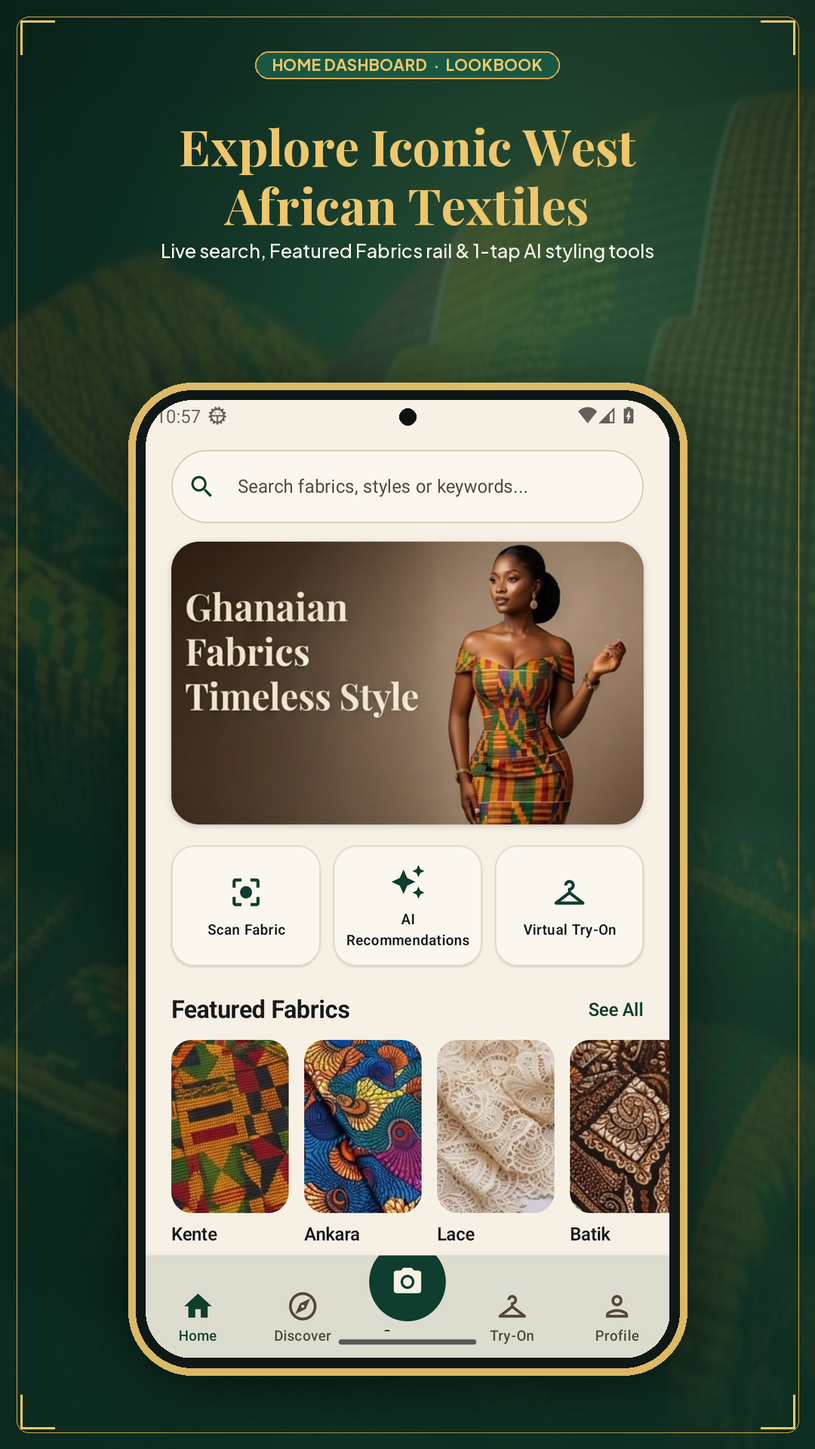
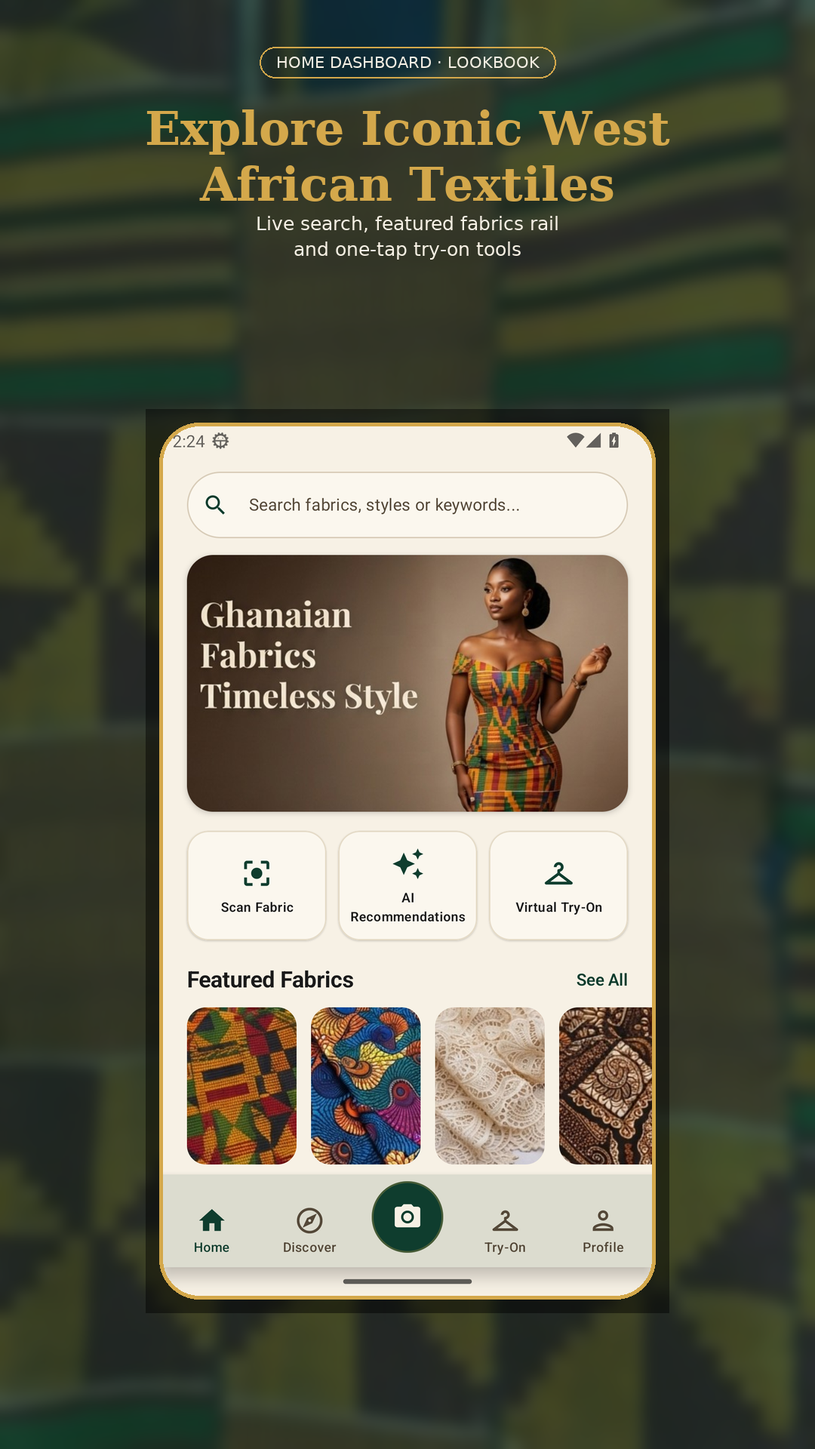
docs: bring the README in line with the shipped v1.1.0
Corrections (checked against the code, not assumed):
- 29 screens -> 37 destinations (23 named + 14 parameterised routes, counted in
  FabricFitNavHost.kt); mermaid graph completed with Community, Search, notification
  preferences and legal, and two real mermaid bugs fixed (a duplicate GAL node and an
  unquoted "FitMatch AI" label that parsed as a stray node).
- Model sizes re-measured: selfie_segmentation was listed as 243.7 KB but is 12.1 KB,
  human_parsing 35.8 -> 24.7 KB, cloth_warper 11.9 -> 25.2 KB.
- Removed the "temperature-scaled softmax" claim; there is no temperature scaling in
  the code. The model output is already softmax.
- Swatch count 19 -> 15; the 98% Match pill is computed from the scan, not hard-coded.
  Also fixed a mermaid-adjacent number: the store card for wardrobe reads 98% confidence.
- Download links and badges point at v1.1.0.

Rebranding and new material:
- Title is FabricFit, not "FabricFit - Heritage Luxe". Heritage Luxe is documented as the
  internal design-system name and the old user-facing copy is called out as removed in
  v1.1.0.
- App icon of record added to the header; brand-mark section rewritten for the new
  fabric-bolt-in-a-hanger icon and the adaptive/monochrome/legacy layers.
- Screen breakdown updated for the rebuilt welcome screen, the Women/Men filters and the
  Discover photo ribbon.
- New: What's new in v1.1.0, Known limitations, Testing notes.
[…]

diff --git a/README.md b/README.md
@@ -1,8 +1,12 @@
-# FabricFit — Heritage Luxe
+# FabricFit
 
 [![build](https://github.com/Jacinth-19/fabricfit-app/actions/workflows/build.yml/badge.svg)](https://github.com/Jacinth-19/fabricfit-app/actions/workflows/build.yml)
 [![release](https://img.shields.io/github/v/release/Jacinth-19/fabricfit-app?label=release)](https://github.com/Jacinth-19/fabricfit-app/releases/latest)
-[![download](https://img.shields.io/badge/download-fabricfit--v1.0.1.apk-D4A84B)](https://github.com/Jacinth-19/fabricfit-app/releases/latest/download/fabricfit-v1.0.3.apk)
+[![download](https://img.shields.io/badge/download-fabricfit--v1.1.0.apk-D4A84B)](https://github.com/Jacinth-19/fabricfit-app/releases/latest/download/fabricfit-v1.1.0.apk)
+
+<p align="center">
+  <img src="FabricFit/brand/fabricfit_icon_512.png" alt="FabricFit app icon" width="120">
+</p>
 
 <div align="center">
 
@@ -15,8 +19,8 @@
 
 <table>
   <tr>
-    <td align="center"><img src="FabricFit/docs/screenshots/welcome.png" alt="FabricFit Welcome Screen" width="210"><br><sub><strong>Welcome · Heritage Luxe</strong></sub></td>
-    <td align="center"><img src="FabricFit/docs/screenshots/home.png" alt="FabricFit Home Dashboard" width="210"><br><sub><strong>Home Dashboard</strong></sub></td>
+    <td align="center"><img src="FabricFit/docs/screenshots/welcome.png" alt="FabricFit Welcome Screen" width="210"><br><sub><strong>Welcome · Shopping Home</strong></sub></td>
+    <td align="center"><img src="FabricFit/docs/screenshots/home.png" alt="FabricFit Home Dashboard" width="210"><br><sub><strong>Home · Lookbook</strong></sub></td>
     <td align="center"><img src="FabricFit/docs/screenshots/create.png" alt="FabricFit Capture Fabric" width="210"><br><sub><strong>FitScan · Capture Fabric</strong></sub></td>
     <td align="center"><img src="FabricFit/docs/screenshots/favourites.png" alt="FabricFit Scan Results" width="210"><br><sub><strong>FitScan · Scan Results</strong></sub></td>
   </tr>
@@ -34,6 +38,8 @@ Complete Google Play Console store listing copy, feature graphics, framed screen
   <img src="FabricFit/store/video/fabricfit_promo_preview.gif" alt="FabricFit Google Play Promo Video Preview" width="760">
   <br>
   <sub><strong>🎬 <a href="FabricFit/store/video/fabricfit_play_store_promo_16x9.mp4">16:9 Google Play Promo Video (MP4 + Audio)</a> · <a href="FabricFit/store/video/fabricfit_shorts_reel_9x16.mp4">9:16 Play Shorts / Reels Video (MP4 + Audio)</a> · <a href="FabricFit/store/listing.md">Full Play Store Listing Kit</a></strong></sub>
+  <br>
+  <sub>⚠ <strong>The promo videos are from before v1.1.0</strong> — they still show the old <em>Heritage Luxe</em> welcome screen. The framed store cards below (01–06) have been regenerated against the current UI.</sub>
 </div>
 
 <br>
@@ -53,7 +59,7 @@ Complete Google Play Console store listing copy, feature graphics, framed screen
 
 ## About FabricFit
 
-**FabricFit** (design system codename **Heritage Luxe**) is a cultural fashion and textile-intelligence Android app built in **Kotlin + Jetpack Compose** in **Accra, Ghana**. It celebrates the artistry of Ghanaian and West African textiles — **Kente**, **Ankara / Wax Print**, **Adinkra**, **Lace**, **Batik**, **Brocade**, and **Northern Fugu / Gonja smock weaves** — and turns every piece of cloth you own into a tailored outfit brief.
+**FabricFit** is a cultural fashion and textile-intelligence Android app built in **Kotlin + Jetpack Compose** in **Accra, Ghana**. It reads like a shopping app: editorial photography, a lookbook you can filter by *Women* or *Men*, and a try-on preview. It celebrates the artistry of Ghanaian and West African textiles — **Kente**, **Ankara / Wax Print**, **Adinkra**, **Lace**, **Batik**, **Brocade**, and **Northern Fugu / Gonja smock weaves** — and turns every piece of cloth you own into a tailored outfit brief.
 
 1. **Scan (`FitScan`)** — Point your camera at any fabric. On-device computer vision classifies the weave, extracts its dominant colour palette, and identifies pattern geometry and drape texture.
 2. **Discover (`FitMatch AI`)** — Browse curated Ghanaian styles (*Kaba & Slit*, *Modern Kente Dress*, *Elegant Peplum*, *Maxi Gown*, *Two-Piece Co-ord*, *Royal Agbada*, *Senator*, *Northern Smock*) ranked by confidence score and occasion.
@@ -66,7 +72,9 @@ Complete Google Play Console store listing copy, feature graphics, framed screen
 
 ## UI/UX Design System — *Heritage Luxe*
 
-As the UI/UX design direction for FabricFit, **Heritage Luxe** replaces generic utility templates with an **editorial, culturally grounded design language** inspired by Ghanaian royal textiles and contemporary luxury fashion houses.
+**Heritage Luxe** is the internal name of the design system — the colour tokens, type scale and component language. It is no longer user-facing copy: the wordmark on the welcome screen and splash reads **FabricFit**, in all four locales. (Earlier builds displayed *Heritage Luxe* as the product name; v1.1.0 removed it.)
+
+The direction replaces generic utility templates with an **editorial, culturally grounded design language** inspired by Ghanaian royal textiles and contemporary luxury fashion houses.
 
 ### 1. Design Pillars
 
@@ -95,9 +103,13 @@ As the UI/UX design direction for FabricFit, **Heritage Luxe** replaces generic 
 | **UI Controls & Commerce Metadata** | **Clean Geometric Sans-Serif** (`FontFamily.SansSerif`) | Search bar, filter chips (`All · Casual · Formal · Occasion`), confidence badges (`98% Match`), pricing (`$78.00 – $140.00`), and star ratings (`★ 4.8`). |
 | **Multilingual Readability** | **Unicode-Complete Sans** | Engineered for seamless rendering across **English**, **Twi (`tw`, ɛ/ɔ glyphs)**, **Ga (`gaa`, ŋ/ɛ/ɔ)**, and **Ewe (`ee`, ɖ/ƒ/ɣ/ŋ/ɔ/ʋ)**. |
 
-### 4. Brand Monogram (`HeritageLuxeMark`)
+### 4. Brand Mark
 
-The splash emblem and brand mark is a custom symmetrical **Adinkra-inspired monogram** rendered in Royal Gold (`#D4A84B`) on Deep Forest (`#0F3D2E`). Its central eye disk, vertical loom spine, three-pronged crown, and flanking woven wings symbolise the union of traditional loom craftsmanship and modern AI vision.
+The launcher icon was replaced in **v1.1.0**. It is a **bolt of fabric folded into a hanger**, with gold adinkra-style patterning on deep emerald — the symbol reads as *clothing* at 48 px, which the previous flat swatch mark did not. It ships as an adaptive icon (background, foreground and monochrome layer), as legacy mipmaps for Android 7–7.1, and as the splash logo.
+
+The older Adinkra monogram (`HeritageLuxeMark`, gold on deep forest, with its eye disk, loom spine, three-pronged crown and woven wings) is still drawn inside the welcome screen and the in-app splash as a compact brand lock-up, next to the **FabricFit** wordmark.
+
+Source of record: [`FabricFit/brand/fabricfit_icon_512.png`](FabricFit/brand/fabricfit_icon_512.png).
 
 ---
 
@@ -118,9 +130,9 @@ ahead of the latest published APK.
 
 <table>
   <tr>
-    <td align="center"><img src="FabricFit/docs/screenshots/welcome.png" alt="FabricFit Welcome Screen" width="215"><br><strong>1. Welcome / Splash</strong><br><sub>Deep Forest canvas, gold Adinkra monogram, folded Kente hero &amp; pill CTAs</sub></td>
-    <td align="center"><img src="FabricFit/docs/screenshots/home.png" alt="FabricFit Home Dashboard" width="215"><br><strong>2. Home Dashboard</strong><br><sub>Search pill, editorial Kente banner, quick-action tiles &amp; Featured Fabrics</sub></td>
-    <td align="center"><img src="FabricFit/docs/screenshots/discover.png" alt="FabricFit Discover" width="215"><br><strong>3. Discover (FitMatch AI)</strong><br><sub>Occasion filter pills over the 2-column Ghanaian lookbook grid</sub></td>
+    <td align="center"><img src="FabricFit/docs/screenshots/welcome.png" alt="FabricFit Welcome Screen" width="215"><br><strong>1. Welcome / Splash</strong><br><sub>Editorial photo hero, FabricFit wordmark &amp; proof chips — copy on a cream panel</sub></td>
+    <td align="center"><img src="FabricFit/docs/screenshots/home.png" alt="FabricFit Home Dashboard" width="215"><br><strong>2. Home Dashboard</strong><br><sub>Search pill, editorial banner, quick-action tiles &amp; Featured Fabrics rail</sub></td>
+    <td align="center"><img src="FabricFit/docs/screenshots/discover.png" alt="FabricFit Discover" width="215"><br><strong>3. Discover (FitMatch AI)</strong><br><sub>Editorial photo ribbon, Women/Men filters &amp; the 2-column lookbook grid</sub></td>
   </tr>
   <tr>
     <td align="center"><img src="FabricFit/docs/screenshots/create.png" alt="FabricFit Capture Fabric" width="215"><br><strong>4. Capture Fabric (FitScan)</strong><br><sub>Dark forest camera chrome, viewfinder &amp; Photo/Sample/Scan switcher</sub></td>
@@ -144,19 +156,19 @@ minified **release build** is published to GitHub Releases on version tags,
 manual workflow dispatch, or a branch commit marked `[release]`; ordinary branch
 builds upload CI artifacts without replacing the public release.
 
-> ### 👉 [Download FabricFit v1.0.3 (APK)](https://github.com/Jacinth-19/fabricfit-app/releases/latest/download/fabricfit-v1.0.3.apk)
+> ### 👉 [Download FabricFit v1.1.0 (APK)](https://github.com/Jacinth-19/fabricfit-app/releases/latest/download/fabricfit-v1.1.0.apk)
 >
-> [`releases/latest`](https://github.com/Jacinth-19/fabricfit-app/releases/latest) also carries `fabricfit-v1.0.3.aab` for a Play upload.
+> [`releases/latest`](https://github.com/Jacinth-19/fabricfit-app/releases/latest) also carries `fabricfit-v1.1.0.aab` for a Play upload.
 
 ```bash
 # install on a connected phone or a running emulator
-adb install -r fabricfit-v1.0.3.apk
+adb install -r fabricfit-v1.1.0.apk
 ```
 
 | What | Where it comes from | Notes |
 | --- | --- | --- |
-| **Release APK** (`fabricfit-v1.0.3.apk`) | `release` job → GitHub Releases | R8-minified, `armeabi-v7a` + `arm64-v8a`, `minSdk 24` (Android 7.0+). |
-| **Release bundle** (`fabricfit-v1.0.3.aab`) | same release | The artifact you would upload to the Play Console. |
+| **Release APK** (`fabricfit-v1.1.0.apk`) | `release` job → GitHub Releases | R8-minified, `armeabi-v7a` + `arm64-v8a`, `minSdk 24` (Android 7.0+). |
+| **Release bundle** (`fabricfit-v1.1.0.aab`) | same release | The artifact you would upload to the Play Console. |
 | **Debug APK** | run → artifact `fabricfit-debug-apk` | `com.fabricfit.app.debug`, debuggable, for testers without a release key. |
 | **Instrumented test report** | run → artifact `test-reports` | Unit-test and lint output for the run. |
 
@@ -178,6 +190,7 @@ pipeline (the older `android-ci.yml` is kept only for reference):
 | `verify` | every push & PR (paths under `FabricFit/**`) | `./gradlew :app:testDebugUnitTest :app:assembleDebug :app:assembleDebugAndroidTest`, then uploads the debug APK and test reports. Gradle failures are annotated inline on the commit. |
 | `release` | after `verify` | `:app:assembleRelease :app:bundleRelease` with R8 (using `KEYSTORE_BASE64` when set, otherwise `demo-release.keystore`), uploads both artifacts, and publishes them to the `v*` GitHub Release on tags, manual dispatch, or a push whose commit message contains `[release]`. |
 | `device-qa` | manual, weekly, or on `v*` tags | Linux runner (`ubuntu-latest`) with KVM & `SCREENSHOT_ABI=1`: boots an API 33 `x86_64` emulator and runs `PersonSegmenterDeviceTest`. |
+| `tryon-e2e` | manual dispatch, or any push whose commit message contains `[tryon-e2e]` | Runs the real try-on on an API 33 emulator (bundled model photo + kente swatch through `PersonSegmenter` and `DemoLookGenerator`), then commits the render, the mask, `report.txt` and a `geometry.txt` polygon dump to `FabricFit/docs/vton/device/`. |
 | `screenshots` | manual dispatch, or any push whose commit message contains `[screenshots]` | Boots an API 33 emulator, drives the app, and commits fresh PNGs to `FabricFit/docs/screenshots/`. |
 
 ```bash
@@ -193,9 +206,10 @@ The notes below refer to the genuine emulator captures in
 [`FabricFit/docs/screenshots/`](FabricFit/docs/screenshots/), not separate design
 mockups.
 
-1. **Welcome / Splash ([`welcome.png`](FabricFit/docs/screenshots/welcome.png) → `OnboardingScreen.kt`)**
-   - Full-bleed Deep Forest (`#0F3D2E`) atmosphere with the Royal Gold Adinkra monogram (`HeritageLuxeMark`), *Heritage Luxe* serif title, and *Scan. Discover. Try. Wear.* value proposition.
-   - Anchored by photorealistic stacked folds of hand-woven Kente cloth and dual full-width pill CTAs (**Get Started** in tonal forest green and **Login** in outlined muted gold).
+1. **Welcome ([`welcome.png`](FabricFit/docs/screenshots/welcome.png) → `OnboardingScreen.kt`)**
+   - A shopping app opens on product, so the screen leads with a full-bleed editorial photograph of a model in kente, with a rounded base and a top scrim carrying the compact brand lock-up and a *Ghana · Made to order* badge.
+   - The headline *Dress the way you were meant to.* and the subtitle sit on a clean cream panel beneath the photo — never on top of the pattern, which is what made earlier builds unreadable.
+   - Closes with *Works offline · AI try-on · Free to use* chips and dual pill CTAs (**Get Started**, **Login**). Content fades and rises in on first frame.
 2. **Home Dashboard ([`home.png`](FabricFit/docs/screenshots/home.png) → `HomeScreen.kt`)**
    - Opens on a Warm Cream (`#F7F1E5`) canvas with a rounded global search pill (*"Search fabrics, styles or keywords…"*).
    - Features the *"Ghanaian Fabrics · Timeless Style"* editorial hero banner, three balanced quick-action cards (**Scan Fabric**, **AI Matches**, **Virtual Try-On**), and a horizontal **Featured Fabrics** rail (**Kente**, **Ankara**, **Lace**, **Batik**, **Adinkra**).
@@ -203,11 +217,11 @@ mockups.
    - Uses dark forest chrome (`#0A2B20`) to eliminate glare while inspecting textile threads.
    - Pairs a macro Kente viewfinder frame with a **Photo · Sample · ● Scan** mode indicator, a quick-access swatch gallery thumbnail, a double-ring shutter button, and a sample-fabric switcher.
 4. **Scan Results ([`favourites.png`](FabricFit/docs/screenshots/favourites.png) → `FavoritesScreen.kt` & `FabricDetailScreen.kt`)**
-   - Summarises the identified weave (**Kente Royalty**) alongside a high-contrast **`98% Match`** pill badge and four extracted colour swatches (forest green, deep burgundy, royal gold, Kente crimson).
+   - Summarises the identified weave (**Kente Royalty**) alongside a high-contrast match pill (the percentage is computed from the scan; `98% Match` is what the demo fabric scores) and four extracted colour swatches (forest green, deep burgundy, royal gold, Kente crimson).
    - Provides a segmented **Colors · Pattern · Style** inspector, a **Recommended Dresses** horizontal carousel with star ratings and review counts, and a full-width gold-on-forest **View All Recommendations** CTA.
-5. **Outfit Recommendations ([`discover.png`](FabricFit/docs/screenshots/discover.png) → `DiscoverScreen.kt` & `RecommendationsScreen.kt`)**
-   - Pairs an editorial serif title with pill filter chips (**All**, **Casual**, **Formal**, **Occasion**, **Fabrics**).
-   - Displays a two-column lookbook grid (*Modern Kente Dress*, *Elegant Peplum Dress*, *Maxi Dress*, *Two-Piece Set*) with favourite heart affordances, tailoring price estimates, and gold star ratings.
+5. **Discover ([`discover.png`](FabricFit/docs/screenshots/discover.png) → `DiscoverScreen.kt` & `RecommendationsScreen.kt`)**
+   - Pairs an editorial serif title with pill filter chips (**All**, **Casual**, **Formal**, **Occasion**) and a second row for **All · Women · Men** plus a sort menu (*Best Match*, *Trending*, *Popular*). *Men* also matches unisex styles.
+   - Opens with a horizontally scrolling **editorial photo ribbon** — real photography of women and men in Ghanaian dress — above the two-column lookbook grid, which carries favourite heart affordances, tailoring price estimates and gold star ratings.
 6. **Profile ([`profile.png`](FabricFit/docs/screenshots/profile.png) → `ProfileScreen.kt`)**
    - Returns to the intimate Deep Forest dark palette with a gold-ringed circular portrait (**Ama Serwaa — Fashion Lover**), a three-column activity summary for scans, favourites and try-ons, and translucent dark cards leading to **My Fit Closet**, **Saved Styles**, **Scan History**, **Settings**, and **Help & Support**.
 
@@ -219,14 +233,14 @@ mockups.
 | --- | --- | --- |
 | Camera scanner | **FitScan** | Photograph any fabric; on-device ML classifies the textile and extracts its palette, pattern, and texture. |
 | AI recommendation engine | **FitMatch AI** | Ranks outfit designs against your fabric with a confidence % and plain-language reasoning; filterable by occasion and category. |
-| Virtual try-on | **FitRoom** | Drapes the scanned fabric onto a model or your own photo so you can preview the finished garment before you sew. Runs entirely on-device — no account, no API key, works offline. See [`FabricFit/tools/vton_qa/README.md`](FabricFit/tools/vton_qa/README.md) to test it locally or on your phone. |
+| Virtual try-on | **FitRoom** | Drapes the scanned fabric onto a model or your own photo so you can preview the finished garment before you sew. It is **geometry plus compositing, not a diffusion render**: `PersonSegmenter` finds the person, `BodyFit` measures shoulders/bust/waist/hip from the mask, and the garment is fitted as vector polygons with the real fabric drawn through them and shaded. Runs entirely on-device in roughly 150 ms — no account, no API key, works offline. See [`FabricFit/tools/vton_qa/README.md`](FabricFit/tools/vton_qa/README.md) to test it locally or on your phone. |
 | Wardrobe & saved items | **My Fit Closet** | Organises your wardrobe capsule, saved styles, scan history, body measurements, and shareable PDF tailor briefs. |
 
 ---
 
-## Navigation Map (29 Screens)
+## Navigation Map (37 Destinations)
 
-The app ships **29 screens**: 28 registered in the navigation graph plus the first-run Welcome/Onboarding gate. Routes are declared in [`ui/navigation/Destinations.kt`](FabricFit/app/src/main/java/com/fabricfit/app/ui/navigation/Destinations.kt) and wired up in [`ui/navigation/FabricFitNavHost.kt`](FabricFit/app/src/main/java/com/fabricfit/app/ui/navigation/FabricFitNavHost.kt).
+The app ships **37 destinations**: 36 registered in the navigation graph (23 named routes plus 14 parameterised ones such as `design/{styleId}` and `tryon?fabricId=…`) plus the first-run Welcome/Onboarding gate. Routes are declared in [`ui/navigation/Destinations.kt`](FabricFit/app/src/main/java/com/fabricfit/app/ui/navigation/Destinations.kt) and wired up in [`ui/navigation/FabricFitNavHost.kt`](FabricFit/app/src/main/java/com/fabricfit/app/ui/navigation/FabricFitNavHost.kt).
 
 ```mermaid
 flowchart TD
@@ -243,13 +257,13 @@ flowchart TD
     CREATE --> CAMP[Camera · person]
     CAMF --> EDIT[Edit image]
     GAL --> EDIT
-    EDIT --> ANA[FitScan analysis]
+    EDIT --> ANA["FitScan analysis"]
     ANA --> FAB[Fabric detail]
 
-    FAB --> MATCH[FitMatch AI]
+    FAB --> MATCH["FitMatch AI"]
     FAB --> TRY[FitRoom]
     FAB --> COL[Colour ideas]
-    MATCH --> DES[Design detail]
+    MATCH --> DES["Design detail"]
     DES --> TRY
     CAMP --> TRY
     DISC --> DES
@@ -261,6 +275,17 @@ flowchart TD
     HOME --> TL[Tailors and designers]
     TL --> TDET[Tailor detail]
     HOME --> PREM[FabricFit Premium]
+    HOME --> COMM[Community feed]
+    COMM --> CPOST[Create post]
+    COMM --> CHAL[Challenge detail]
+    COMM --> CGAL[Community gallery detail]
+    COMM --> UPROF[User profile]
+    SEARCH[Search] --> DES
+    SEARCH --> UPROF
+    SET --> NOTIF[Notification preferences]
+    SET --> BLOCKED[Blocked users]
+    INFO --> LEGAL[Legal documents]
+    ADMIN[Admin moderation]
 
     PROF --> HIST[History]
     PROF --> SET[Settings]
@@ -277,11 +302,21 @@ FabricFit pairs an offline-first on-device computer-vision and ML pipeline with 
 
 | # | AI / ML Capability | Bundled `.tflite` Assets (`app/src/main/assets/`) | Core Implementation | What It Computes |
 | --- | --- | --- | --- | --- |
-| **1** | **Ghanaian Textile Classifier with OOD Uncertainty** | • `ghanaian_fabric_classifier.tflite` (`85.5 KB`, `[1,128,128,3] -> [1,17]`)<br>• `ghanaian_fabric_labels.txt` (17 classes)<br>• `mobilenet_v2_1.0_224_quant.tflite` (`3.5 MB`, `[1,224,224,3] -> [1,1001]`) | `OnDeviceMlClassifier.kt` & `FabricAnalysisRepositoryImpl.kt` | • Dedicated 17-class Ghanaian & West African textile classifier (`ADINKRA`, `ANKARA`, `BATIK`, `BROCADE`, `CHIFFON`, `COTTON_PLAIN`, `DENIM`, `FUGU`, `GONJA`, `KENTE`, `KENTE_PRINT`, `LACE`, `LINEN`, `SILK`, `TIEDYE`, `VELVET`, `WAX`).<br>• Temperature-scaled softmax, normalized Shannon entropy ($H / \ln K$), top-1/top-2 margin gating, and out-of-distribution (`NON_TEXTILE_DOMINANT`) rejection via MobileNetV2. |
+| **1** | **Ghanaian Textile Classifier with OOD Uncertainty** | • `ghanaian_fabric_classifier.tflite` (`85.5 KB`, `[1,128,128,3] -> [1,17]`)<br>• `ghanaian_fabric_labels.txt` (17 classes)<br>• `mobilenet_v2_1.0_224_quant.tflite` (`3.5 MB`, `[1,224,224,3] -> [1,1001]`) | `OnDeviceMlClassifier.kt` & `FabricAnalysisRepositoryImpl.kt` | • Dedicated 17-class Ghanaian & West African textile classifier (`ADINKRA`, `ANKARA`, `BATIK`, `BROCADE`, `CHIFFON`, `COTTON_PLAIN`, `DENIM`, `FUGU`, `GONJA`, `KENTE`, `KENTE_PRINT`, `LACE`, `LINEN`, `SILK`, `TIEDYE`, `VELVET`, `WAX`).<br>• The model's own softmax output, normalized Shannon entropy ($H / \ln K$), top-1/top-2 margin gating, and out-of-distribution (`NON_TEXTILE_DOMINANT`) rejection via MobileNetV2. There is no temperature scaling in the code. |
 | **2** | **Multi-Scale Weave & Motif Periodicity Analyzer** | • `weave_motif_extractor.tflite` (`16.1 KB`, `[1,128,128,3] -> [1,6]`) | `TextureMetrics.kt`, `ColorPatternAnalyzer.kt` & `OnDeviceMlClassifier.kt` | • 24-filter Gabor directional conv bank (`0°`, `45°`, `90°`, `135°` across 3 wavelengths) + `gaborOrientation(...)` (`GaborOrientationProfile`).<br>• `spectralMotifProfile(...)` (`SpectralMotifProfile`): 1D DFT autocorrelation harmonic purity, normalized strip width, motif repeat pitch (`repeatX`, `repeatY`), and tailoring `AlignmentAdvice`. |
-| **3** | **Human Parsing & Skin-Tone Segmentation** | • `selfie_segmentation.tflite` (`243.7 KB`, MediaPipe `[1,256,256,3] -> [1,256,256,1]`)<br>• `human_parsing_5class.tflite` (`35.8 KB`, `[1,128,128,3] -> [1,128,128,5]`)<br>• `deeplabv3_257_mv.tflite` (`2.7 MB`, `[1,257,257,3] -> [1,257,257,21]`) | `PersonSegmenter.kt` & `ColorHarmonyEngine.kt` | • Fuses MediaPipe Selfie Segmentation, DeepLabV3, and the 5-class human parser (`BACKGROUND`, `HEAD_AND_FACE`, `UPPER_GARMENT`, `LOWER_GARMENT`, `SKIN_EXPOSED`).<br>• Extracts wearer `dominantSkinArgb` and `SkinUndertone` (`WARM_GOLDEN`, `COOL_DEEP`, `NEUTRAL_RICH`) for `ColorHarmonyEngine.skinHarmonyScore(...)` & `suggestForWearer(...)`. |
-| **4** | **Texture-Preserving Cloth Warper for Virtual Try-On** | • `cloth_warper_shading.tflite` (`11.9 KB`, `[1,64,64,4] -> [1,64,64,3]`) | `DemoLookGenerator.kt`, `GarmentGeometry.kt` & `CloudAnalysisClient.kt` | • Seamless `160×160` mirror-tiled real fabric swatch extraction (`loadRealFabricTextureOrFallback`), dynamic sleeve/neckline/length polygon reshaping, 3D cylindrical + neural fold shading (`predictClothShadingMap`), head/face pixel preservation, and `POST v1/tryon` cloud VTON contract. |
-| **5** | **Context-Aware FitMatch AI Ranker** | • `fitmatch_ranker.tflite` (`6.5 KB`, `[1,16] -> [1,1]`) | `RecommendationEngine.kt` & `RecommendationsViewModel.kt` | • 16-feature neural ranker MLP (`buildFeatureVector`) fused with `RecommendationContext` (fabric structure, wearer skin-tone harmony, `Measurements` waist-to-hip & height proportions, Gabor weave anisotropy, and session favorite style affinity). |
+| **3** | **Human Parsing & Skin-Tone Segmentation** | • `selfie_segmentation.tflite` (`12.1 KB`, `[1,256,256,3] -> [1,256,256,1]`)<br>• `human_parsing_5class.tflite` (`24.7 KB`, `[1,128,128,3] -> [1,128,128,5]`)<br>• `deeplabv3_257_mv.tflite` (`2.7 MB`, `[1,257,257,3] -> [1,257,257,21]`) | `PersonSegmenter.kt` & `ColorHarmonyEngine.kt` | • Fuses MediaPipe Selfie Segmentation, DeepLabV3, and the 5-class human parser (`BACKGROUND`, `HEAD_AND_FACE`, `UPPER_GARMENT`, `LOWER_GARMENT`, `SKIN_EXPOSED`).<br>• Extracts wearer `dominantSkinArgb` and `SkinUndertone` (`WARM_GOLDEN`, `COOL_DEEP`, `NEUTRAL_RICH`) for `ColorHarmonyEngine.skinHarmonyScore(...)` & `suggestForWearer(...)`. |
+| **4** | **Texture-Preserving Cloth Warper for Virtual Try-On** | • `cloth_warper_shading.tflite` (`25.2 KB`, `[1,64,64,4] -> [1,64,64,3]`) | `DemoLookGenerator.kt`, `GarmentGeometry.kt` & `CloudAnalysisClient.kt` | • Seamless `160×160` mirror-tiled real fabric swatch extraction (`loadRealFabricTextureOrFallback`), dynamic sleeve/neckline/length polygon reshaping, 3D cylindrical + neural fold shading (`predictClothShadingMap`), head/face pixel preservation, and `POST v1/tryon` cloud VTON contract. |
+| **5** | **Context-Aware FitMatch AI Ranker** | • `fitmatch_ranker.tflite` (`6.6 KB`, `[1,16] -> [1,1]`) | `RecommendationEngine.kt` & `RecommendationsViewModel.kt` | • 16-feature neural ranker MLP (`buildFeatureVector`) fused with `RecommendationContext` (fabric structure, wearer skin-tone harmony, `Measurements` waist-to-hip & height proportions, Gabor weave anisotropy, and session favorite style affinity). |
+
+### What the on-device models have actually measured
+
+Checked against the real swatches bundled in the app, so the numbers below are reproducible
+rather than aspirational:
+
+- **Fabric classifier — 15 of 15 bundled swatches correct**, most at 0.99+ confidence. Stable under rotation, mirroring and brightening; degrades sensibly (desaturated kente → `BATIK`, darkened lace → `SILK`).
+- **It is confident on non-fabric input.** Solid white and solid black both return `LINEN` at 1.00; random noise returns `ANKARA` at 0.997. The model answers *"which of these 17 fabrics is this most like"*, not *"is this fabric at all"*. The ImageNet OOD gate plus the spectral/Gabor checks in `OnDeviceMlClassifier` are what actually reject a photo of a wall or a plate of food — those paths carry more weight than they look like they do.
+- **Four of the eight `.tflite` files are small feature networks**, not trained deep models: `selfie_segmentation`, `human_parsing_5class`, `weave_motif_extractor` and `cloth_warper_shading` are tensors over a handful of layers. They contribute signals; `deeplabv3`, MobileNetV2 and the fabric classifier are the three full networks in the bundle.
+- **There is no on-device generative try-on model.** Nothing phone-class exists today at usable quality. See [`FabricFit/docs/CATALOGUE_AND_ML.md`](FabricFit/docs/CATALOGUE_AND_ML.md) for the full explanation, the recommendation features, and how to swap in a remote catalogue.
 
 ---
 
@@ -289,7 +324,8 @@ FabricFit pairs an offline-first on-device computer-vision and ML pipeline with 
 
 ```
 FabricFit/          Android app (Kotlin + Jetpack Compose), package com.fabricfit.app
-  app/              app module — Heritage Luxe UI, domain engines, Room DB, on-device ML
+  app/              app module — Compose UI (Heritage Luxe design system), domain engines,
+                    Room DB, on-device ML
   docs/             brand positioning, Play readiness, device QA, research notes,
                     screenshots/ (real API 33 emulator captures)
   store/            Play listing copy, icon and feature graphic, privacy policy
@@ -314,7 +350,7 @@ Full build instructions, release signing, and verification notes: [`FabricFit/BU
 
 ## Ghanaian Languages (`i18n`)
 
-FabricFit ships with full string translations in **English**, **Twi (`tw`)**, **Ga (`gaa`)**, and **Ewe (`ee`)**. Translation packs live in `FabricFit/tools/i18n/`; validate and regenerate XML resources with:
+FabricFit ships with **829 strings** in each of **English**, **Twi (`tw`)**, **Ga (`gaa`)** and **Ewe (`ee`)** — four complete locale files, not English with a few words swapped (the locales differ from each other in ~95% of strings). Translation packs live in `FabricFit/tools/i18n/`; validate and regenerate the XML resources with:
 
 ```bash
 cd FabricFit
@@ -323,13 +359,42 @@ python3 tools/i18n/generate.py
 
 ---
 
+## What's new in v1.1.0
+
+- **New launcher icon and splash mark** — fabric bolt folded into a hanger, replacing the flat swatch vector.
+- **Welcome screen rebuilt** for a shopping-app first impression: editorial photo hero, FabricFit wordmark, headline on a cream panel, proof chips, and a fade-and-rise entrance.
+- **"Heritage Luxe" removed from every user-facing string** (English, Twi, Ga, Ewe); it remains the internal design-system name.
+- **Real photography replaces illustrations** — the 12 catalogue looks are now editorial photographs of women and men in Ghanaian dress, and Discover opens with a photo ribbon. Assets re-encoded to phone sizes (2.5 MB → 1.3 MB).
+- **Motion** — a reusable `revealOnEnter` effect on Home and Discover, plus a scale-in on the splash.
+- **Play Store cards 01–06 regenerated** so the store listing shows the current UI instead of the old welcome screen.
+
+## Known limitations
+
+Written down so they are not mistaken for finished work:
+
+- **The try-on is not photorealistic.** Garment edges sit slightly inside the arm silhouette, and the subject's own clothing still shows at the waist and below the sleeves. It is a fitting preview, not a render.
+- **No behavioural personalisation.** Recommendations use fabric analysis, style metadata, optional measurements, skin tone and favourites. There is no click or purchase history and no A/B testing.
+- **The catalogue is bundled.** 20 styles, 12 looks, 15 swatches. There is no server, no accounts, and no way to add a look without shipping a new APK — the `CatalogDataSource` interface is the seam where a backend would attach.
+- **Twi, Ga and Ewe translations are machine-generated.** They are genuinely distinct strings (only ~5% identical between locales), but they have not been reviewed by native speakers. Treat them as a starting point, not as launch-ready copy.
+- **Four of the eight bundled `.tflite` files are small feature networks**, not trained deep models. See the ML section above for which ones are real.
+- **Motion is per-screen, not one continuous choreography.** Screens animate on entry; there is no shared element transition between them yet.
+
+## Testing notes
+
+- Every screenshot in this README is an emulator capture (API 33, 1080 × 1920) produced by the `screenshots` job — no mockups.
+- The on-device try-on is verified on an **emulator**, not a physical handset. A real camera photo gives a messier segmentation mask than the bundled sample, so results on a phone may differ.
+- `BodyFitParityTest` pins the geometry that the Kotlin renderer and the Python reference (`tools/vton_qa/vton_local.py`) must agree on, including a guard that every neckline emits both neck edges and both shoulder tips.
+
+---
+
 ## Taglines
 
 | Context | Line |
 | --- | --- |
-| **Welcome Hero** | Scan. Discover. Try. Wear. |
-| **Heritage Luxe Editorial** | Where Ghanaian Heritage Fabric Meets Modern Style. |
+| **App tagline** (`app_tagline`) | Scan. Discover. Try. Wear. |
+| **Welcome headline** (v1.1.0) | Dress the way you were meant to. |
 | **Primary Product Line** | Scan Your Fabric. Wear Your Style. |
 | **Tech-Focused** | AI-Powered Ghanaian Fabric & Outfit Matching. |
+| **Design system** (internal) | Heritage Luxe — not user-facing copy |
 
 Made with pride in **Accra, Ghana** 🇬🇭
